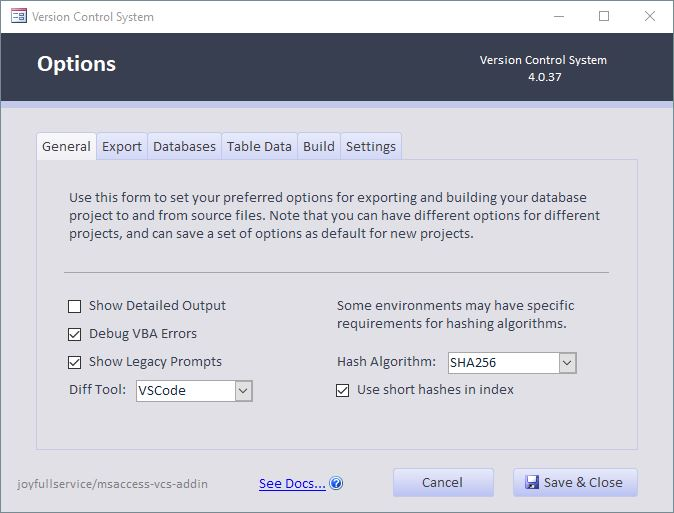
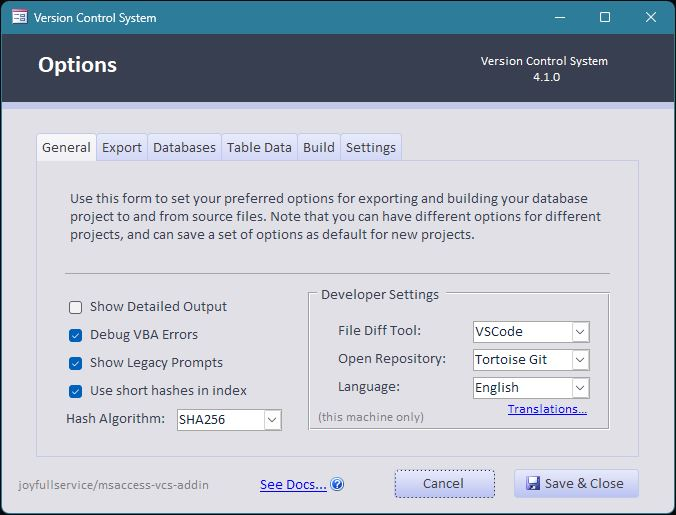
Update wiki style (#608)
* Update screenshots to V4.1.1

* Clean up white space.

* Update export and import details for recent changes and split form/reports.

* Update Options for new / changed options.

* Add translation page

diff --git a/Wiki/Export-Import-File-Types.md b/Wiki/Export-Import-File-Types.md
@@ -67,7 +67,7 @@ Note that in your export folder you will only see the folders and files for the 
 
 
 # Main Folder
-These files are present in the MSAccessVCS-Addin project; they may or may not be present in your repository depending on how you have yours set up. 
+These files are present in the MSAccessVCS-Addin project; they may or may not be present in your repository depending on how you have yours set up.
 
 |File |Present When |Details & Description
 |:-|:-:|:-
@@ -90,7 +90,8 @@ Forms are exported into the `forms` folder by default. Each form will be exporte
 
 |File or Type|Present When |Details & Description
 |:-|:-:|:-
-|`*.bas`|Form Export |Exported for each form present in the database. 
+|`*.bas`|Form Export |Exported for each form present in the database.
+|`*.cls`|Code Behind Form Export |Exported for each form present in the database. **Only exported when [Options/Export/ "Split Layout from VBA"](Options#export-tab) is _ON_.**
 |`*.json`|Form Print settings |Only exported if the form has print settings (rare). Contains printer formatting and page settings.
 
 
@@ -134,7 +135,8 @@ Reports are exported into the `reports` folder by default.
 
 |File or Type|Present When |Details & Description
 |:-|:-:|:-
-|`*.bas`|Reports Export |Exported for each Report present in the database. 
+|`*.bas`|Reports Export |Exported for each Report present in the database.
+|`*.cls`|Code Behind Report Export |Exported for each report present in the database. **Only exported when [Options / Export: "Split Layout from VBA"](Options#export-tab) is _ON_.**
 |`*.json`|Report Print settings |Only exported if the report has print settings (nearly always for reports). Contains printer formatting and page settings.
 
 
@@ -144,7 +146,7 @@ Table data is exported into `tables` folder by for each table you setup to expor
 |File or Type|Present When |Details & Description
 |:-|:-:|:-
 |`*.xml`|XML Data Export |There will be one `.XML` file for each table setup to have the data exported as XML.
-|`*.TDF`|TDF Data Export |There will be one `.TDF` file for each table setup to have the data exported as TDF. This is more human readable, but may lose some information, especially if you have "Special Charachters".
+|`*.TDF`|TDF Data Export |There will be one `.TDF` file for each table setup to have the data exported as TDF. This is more human readable, but may lose some information. **Not reccomended if "Special Charachters" are present.**
 
 
 ### [YourSource.extension].src\tbldefs
@@ -152,9 +154,9 @@ Table definitions are exported into the `tbldefs` folder by default. Note table 
 
 |File or Type|Present When |Details & Description
 |:-|:-:|:-
-|`JSON` |Linked Tables Only |Contains additional table attributes (should be all, but I'm sure there's probably an edge case that's not been caught yet), such as connection string, the Access table name, the linked table name (on the server), a list of attributes (it's a `long` type that's used in `bitwise` fashion), and a few other bits to cue MSAccessVCS how to import the table.
-|`XML` |Local Tables Only |Table format and extra information (such as row display height, column display width, required/not, column formatting information (Plain Text/RTF, Date Time formatting, etc.) and so on. It is the most 'reliable' and full export of the local table as it (usually) contains all the meta data about the table. `XML` ensures pretty much all the format and data will be the same when you rebuild. If you export the table data, too (it's stored in a separate folder), then `XML` is the way to go (usually). You can also export Table data via `TDF` (Tab Delimited Format) if you want something more human-readable. `XML` by its nature is not as row or character dependent. Access also isn't careful at exporting the same components in the same way every time, so the export is mildly prone to code noise during export (AKA: `git` will think there's changes, when there aren't).
-|`SQL` |Linked and Local Tables|If you were to generate a table via SQL, this would be the SQL you'd use. Because Access SQL (SQL Jet) doesn't care about formatting/display width/display height, if you use this, the table won't "look" the same when you open it in Access.
+|`JSON` |Linked Tables Only|Contains additional table attributes (should be all, but I'm sure there's probably an edge case that's not been caught yet), such as connection string, the Access table name, the linked table name (on the server), a list of attributes (it's a `long` type that's used in `bitwise` fashion), and a few other bits to cue MSAccessVCS how to import the table.
+|`XML` |Local Tables Only|Table format and extra information (such as row display height, column display width, required/not, column formatting information (Plain Text/RTF, Date Time formatting, etc.) and so on). It is the most 'reliable' and full export of the local table as it (usually) contains all the meta data about the table. `XML` ensures pretty much all the format and data will be the same when you rebuild. If you export the table data, too (it's stored in a separate folder), then `XML` is the way to go (usually). You can also export Table data via `TDF` (Tab Delimited Format) if you want something more human-readable. `XML` by its nature is not as row or character dependent. Access also isn't careful at exporting the same components in the same way every time, so the export is mildly prone to code noise during export (AKA: `git` will think there's changes, when there aren't).
+|`SQL` |Local Tables Only|If you were to generate a table via SQL, this would be the SQL you'd use. Because Access SQL (SQL Jet) doesn't care about formatting/display width/display height, if you use this, the table won't "look" the same when you open it in Access.
 
 
 ### [YourSource.extension].src\themes

diff --git a/Wiki/Translation.md b/Wiki/Translation.md
@@ -1,0 +1,79 @@
+
+The most recent version of this tool can provide translation support in the AddIn interface (not for your application).
+
+
+See [Translations Issue](https://github.com/joyfullservice/msaccess-vcs-integration/issues/87) for more details.
+
+
+# Options Translation Tab 
+
+**Note:** This tab is normally hidden.
+
+![General Options Tab](img/options-Translation.jpg)
+
+|Setting <img width = 175> |**Default** <p> *(Setting)*|Description
+|-|:-:|:-
+|**Contribute to Translations**|**Default: _On_**|Select this button if you wish to help manage translations.
+|**Translations Path**|**Default: _[Blank]_**|Define the FOLDER path to the `*.pot` translation files.
+|**Button _"Sync Files"_**||Click button to sync the database with the updated Translation files.
+
+
+# Defining Translations in the AddIn
+
+Translations for text are facilitated by calling `T()`. `clsTranslation` is the translation class facilitating language translation functions. `modObjects.T` is where `clsTranslation` is loaded.
+
+|Input (Output) <img width = 175>|Variable Type|**Required** <p> *(Optional Default Value)*|Description
+|-|:-:|:-:|:-
+|strText|`String`|**Required**|The text to be translated. Use variable tags to facilitate variable substitutions (such as file paths).<p>Example: `T("Some String Translation Path: {0}",var0:=SomePath)`
+|strReference|`String`|Optional <p>_`vbNullString`_|
+|strContext|`String`|Optional <p>_`vbNullString`_|
+|strComments|`String`|Optional <p>_`vbNullString`_|
+|var0|`Variant`|Optional|`{0}` substitution; converts to `String` for translation.
+|var1|`Variant`|Optional|`{1}` substitution; converts to `String` for translation.
+|var2|`Variant`|Optional|`{2}` substitution; converts to `String` for translation.
+|var3|`Variant`|Optional|`{3}` substitution; converts to `String` for translation.
+|var4|`Variant`|Optional|`{4}` substitution; converts to `String` for translation.
+|var5|`Variant`|Optional|`{5}` substitution; converts to `String` for translation.
+|var6|`Variant`|Optional|`{6}` substitution; converts to `String` for translation.
+|var7|`Variant`|Optional|`{7}` substitution; converts to `String` for translation.
+|var8|`Variant`|Optional|`{8}` substitution; converts to `String` for translation.
+|var9|`Variant`|Optional|`{9}` substitution; converts to `String` for translation.
+
+
+# Translation Definition
+
+See `modObjects` for most up to date definition.
+
+```VBA
+'---------------------------------------------------------------------------------------
+' Procedure : T
+' Author    : Adam Waller
+' Date      : 3/19/2024
+' Purpose   : Wrapper function to translate to current language
+'---------------------------------------------------------------------------------------
+'
+Public Function T(strText As String, Optional strReference As String, _
+    Optional strContext As String, Optional strComments As String, _
+    Optional var0, Optional var1, Optional var2, Optional var3, Optional var4, _
+    Optional var5, Optional var6, Optional var7, Optional var8, Optional var9)
+    T = Translation.T(strText, strReference, strContext, strComments, _
+        var0, var1, var2, var3, var4, var5, var6, var7, var8, var9)
+End Function
+```
+
+# Example Use of T()
+In this example, the result of `T()` to a (fictitional) translation lanuage `ENG ALL CAPS` of `"Error with module: {0}"` would be `ERROR WITH MODULE: Some Cool Name"`.
+
+```VBA
+' Example Use of T()
+Public Sub RunStuffOrNot()
+    Const FunctionName As String = ModuleName & ".RunStuffOrNot"
+    Dim strName As String
+
+    ' All Kinds of code
+    strName = "Some Cool Name"
+
+    CatchAny eelError, T("Error with module: {0}", var0:=strName), FunctionName
+
+End Sub
+```

diff --git a/Wiki/Options.md b/Wiki/Options.md
@@ -8,14 +8,28 @@ Click **Options** to open the **Options dialog**. Internally options are stored 
 |-|:-:|:-
 |**Show Detailed Output**|**Default: Off**|Enable verbose output of each step; useful when you're real curious. This may slow down Export and Build operations.
 |**Debug VBA Errors**|**Default: Off**|*(Advanced Users/Add-in Developers)* If an unexpected error occurs in the add-in code, stop and open the VBA IDE to do further debugging. This may be helpful when debugging a problem with the add-in, or reviewing an existing issue. *You should generally keep Off unless trying to find the source of a bug, or doing development work on the add-in.*
-|**Show Legacy Prompts**|**Default: On**|If upgrading from the integrated version of this project, there may be legacy VCS modules left in your database project that are no longer needed. This will notify you if these legacy modules are found. If you would like to keep them in your project, you can clear this option to disable the notification. 
-||*On*|Legacy prompts on.
-||*Off*|Legacy prompts off. 
+|**Show Legacy Prompts**|**Default: On**|If upgrading from the integrated version of this project, there may be legacy VCS modules left in your database project that are no longer needed. This will notify you if these legacy modules are found. If you would like to keep them in your project, you can clear this option to disable the notification.
+|**Use short hashes in index**|**Default: On**|If on, `git` style hashes (first 7 characters) will be used in the file index. <p>*NOTE: This was done to improve readability and reduce file size, but you can always uncheck this box if you want to store the full hash.*
 |**Hash Algorithm**|**Default: SHA256**|Choose the hashing algorithm here. This may affect build time if you choose a more complex option. Hashes are used to help determine whether source files changed between import/export operations.
 ||~~*SHA1*~~|Use SHA-1 hashing algorithm. ([Not recommended](https://en.wikipedia.org/wiki/SHA-1). While hashing is not used for security purposes in this add-in, any usage of SHA1 is not allowed in some network environments.)
 ||*SHA256*|Use SHA-256 hashing algorithm.
 ||*SHA512*|Use SHA-512 hashing algorithm.
-|**Use short hashes in index**|**Default: On**|If on, `git` style hashes (first 7 characters) will be used in the file index. <p>*NOTE: This was done to improve readability and reduce file size, but you can always uncheck this box if you want to store the full hash.*
+|**Developer Settings**||_Note:_ Developer Settings are local-only and are not saved in the settings config. They are set as a registry preference (same as install preferences).
+|File Diff Tool|**Default: WinMerge**|Select the diff tool used by git.
+||_WinMerge_
+||_VSCode_
+||_TortoiseGitDiff_
+|**Open Repository**|**Default: <p> [Blank]**|Select the tool you want to use to open the repository for git integration.
+||_[Blank]_
+||_Github Desktop_
+||_VSCode_
+||_SourceTree_
+||_Tortoise Git_
+|**Language**|**Default: English**|Select the language used by the AddIn. <p>NOTE: Not all screens or prompts have been updated to use translation. When not updated, the text will display in **English**.<p> See [Translations Page](wiki/Translations) for more details.
+||English (Localization Testing)|Used when performing localization tests.
+||English
+||Brazilian Portuguese
+|[Translations...]()||Click the Translations... link to open the Translation Tab. See [Translation](wiki/Translation#Options-Translation-Tab) for more detail and how to use this feature.
 
 
 ## Export Tab

diff --git a/Wiki/FAQs.md b/Wiki/FAQs.md
@@ -19,7 +19,7 @@ There are several possible reasons for files showing as changed even when you di
 <details>
 <summary><b>Form source files are showing changes in color values</b></summary>
 
-This issue usually comes up in relation to a project being built on different computers, due to how Access internally stores the color values. 
+This issue usually comes up in relation to a project being built on different computers, due to how Access internally stores the color values.
 
 The number you see in the exported source file is affected by the current color profile and settings used by your monitor to represent the colors you see on your screen.
   
